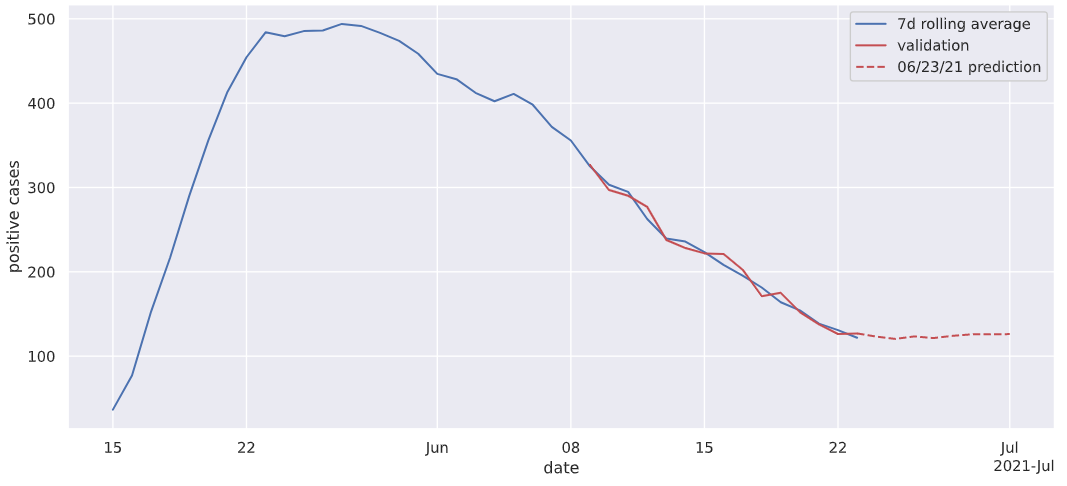
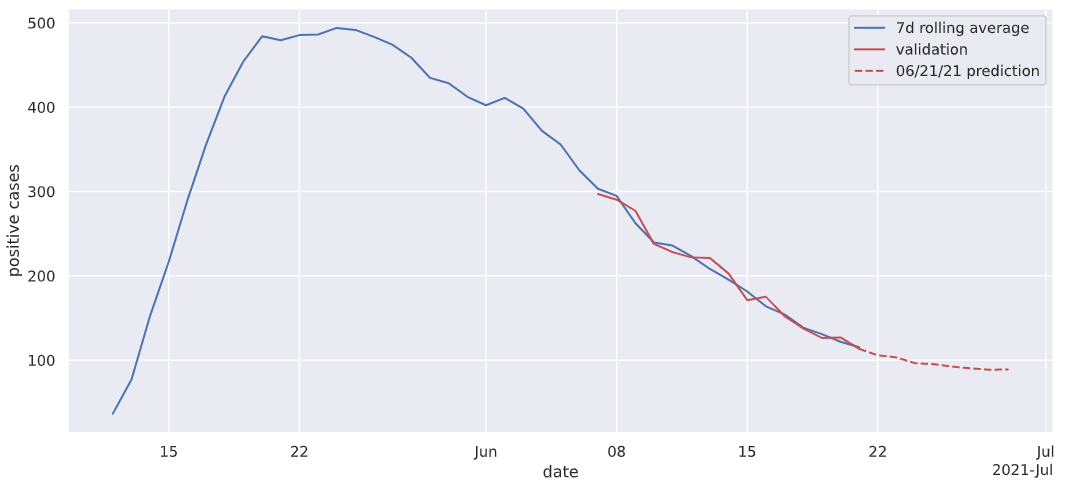
adjust to certer rolling avg

diff --git a/pymongoa.py b/pymongoa.py
@@ -68,7 +68,7 @@ for x in documents.find({}):
 df_daily = pd.DataFrame.from_dict(daily_amt, orient="index")
 df_daily.index = pd.to_datetime(df_daily.index)
 df_daily.index.rename('date', inplace=True)
-df_daily["7d Rolling"] = df_daily["Corrected"].rolling(7).mean()
+df_daily["7d Rolling"] = df_daily["Corrected"].rolling(7, center=True).mean()
 df_daily["dead"] = df_death
 
 df_daily.to_csv("dailyDF.csv")

diff --git a/README.md b/README.md
@@ -10,7 +10,7 @@ To use the repository
 5. Wait the scripts to build the two containers and setup the connection
 6. Open "pymongoa.py" to run (recommend to run in Interactive Window, so the plots can display properly).
 
-The data was extracted daily from the TW CDC website (2021/05/09 ~ 2021/06/23) and stored in Json files, with the following details 
+The data was extracted daily from the TW CDC website (2021/05/09 ~ 2021/06/24) and stored in Json files, with the following details 
 - date
 - confirmed positive case number
 - death toll (if any)
@@ -19,12 +19,17 @@ The data was extracted daily from the TW CDC website (2021/05/09 ~ 2021/06/23) a
     - date
     - updated case number
 
-Example, model validation and forecast
-![sum chart](sumChart.png) 
+Daily Positive Case Chart
+![case chart](positiveCase.png) 
 
 The document-based MongoDB is well suited to store and serve as the DB for this type of daily announcements. The item and content in the announcements can vary from day to day. Without predefined schema and can adjust dynamically provides a huge advantage for dynamic analysis. The use of pymongo library is simple enough. The combination is very handy for adhoc analysis, even machine learning.
 
 The use of vscode "Remote Development" saves a lot of time to setup environments. With everything containerized, remote development should be the way to go.
+
+A simple ARIMA model got fit to the "7 Days Rolloing Avg" of the corrected daily case number. No data split for testing (since this is just a quick example). 7 days forecast are calcualte from the model and put on the same chart. 
+
+Example, model validation and forecast
+![sum chart](sumChart.png) 
 
 [6/24/2021] Two additional containers were used to execute the code quality scan
 1. $ docker run -d --name sonarqube \
